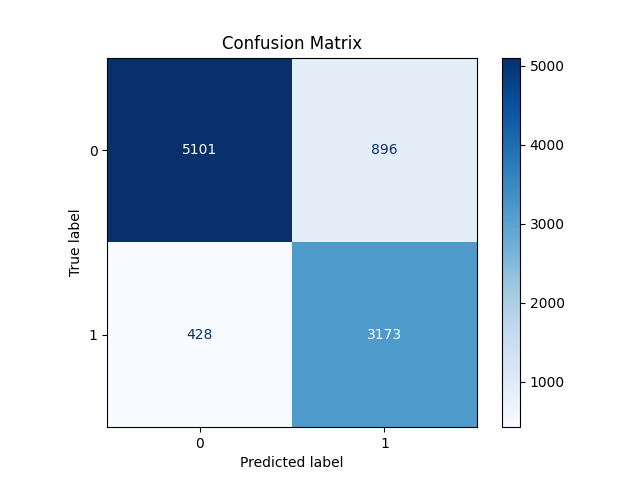
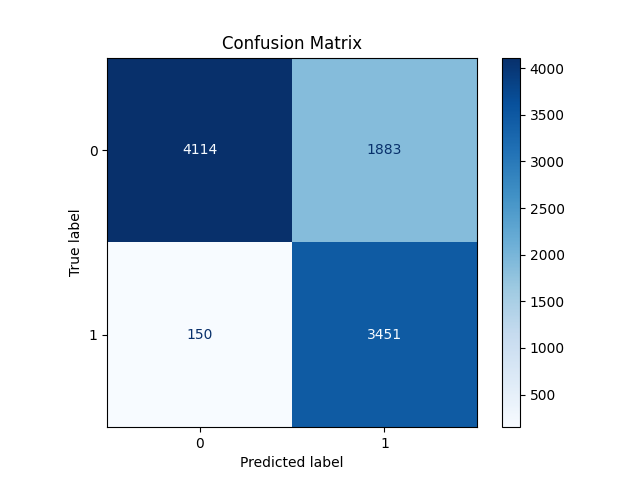
fixed

diff --git a/model/Train.py b/model/Train.py
@@ -57,10 +57,10 @@ def plot_roc_curve(y_test, y_scores):
 def main():
     df = pd.read_csv('data/ebay_dataset.csv')
     df = clean_csv(df)
-    model = LogisticRegression(learning_rate=0.0001, num_iterations=1500)
+    # ACtual num_iteration = 1500, learning rate = 0.0001
+    model = LogisticRegression(learning_rate=0.0001, num_iterations=500)
     print(df.head())
-    df = df.drop(columns=["EbayID", "SellerName", "AuctionSaleRatio",
-                 "MedianPriceDeviation", "ReturnRate", "HighReturnRate"])
+    df = df.drop(columns=["EbayID", "SellerName"])
     X = df.drop(columns=['is_fraud'])  # Replace 'is_fraud' with your actual target column name
     y = df['is_fraud']
     print(X)
